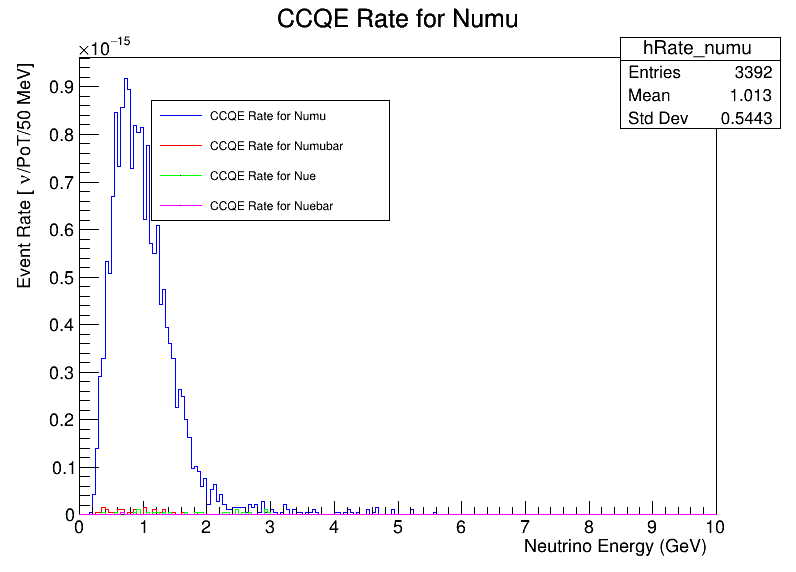
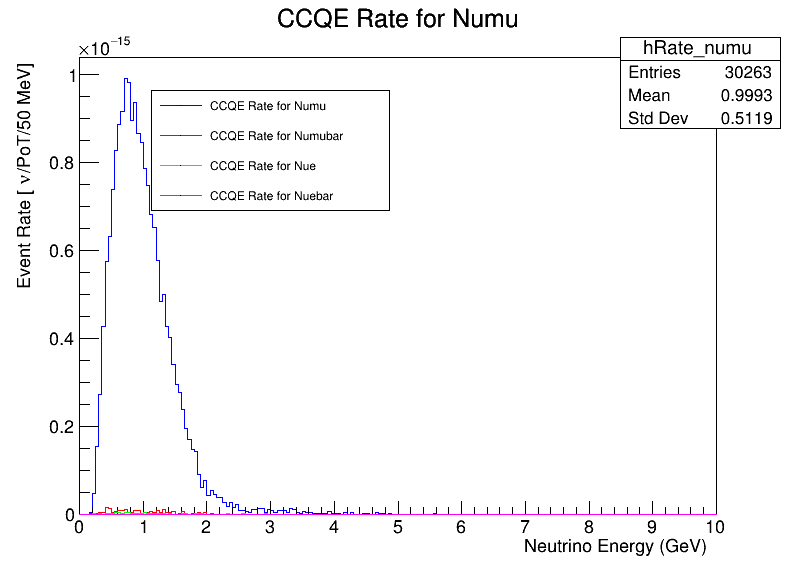
Adding same bin edges as jens thesis fig 6.5.

diff --git a/macros/plotccqe.C b/macros/plotccqe.C
@@ -4,7 +4,7 @@
 #include <map>
 #include <iostream>
 
-void plotccqe(const char* filename = "../output/root/sixth_test_run/combined/NUANCE_events_6.root")
+void plotccqe(const char* filename = "/exp/uboone/data/users/jburridg/Nuance/NUANCE/NUANCE_event_files/output/root/PoT_Nuance_event_files/combined/combined_nuance_events_1.root")
 {// change this to a -secs file for known pot
 
     //////////////////////////////////////////////////////////////////////// //
@@ -15,8 +15,9 @@ void plotccqe(const char* filename = "../output/root/sixth_test_run/combined/NUA
     //////////////////////////////////////////////////////////////////////// //
     Float_t secs_per_file = 1e10; //need to get this from the -secs file; total -secs exposre is the pot.
     Float_t pot_per_sec = 1.17e6;
-    Float_t num_files = 317; //need to get this from the -secs file; total number of files is the number of files that were hadd'd together.
-    Float_t scale_factor = pot_per_sec*secs_per_file * num_files; //this is the factor we need to divide the event numbers by to get the actual event rates. 
+    Float_t num_files = 2716; //need to get this from the -secs file; total number of files is the number of files that were hadd'd together.
+    Float_t N_target = 1.113e31; //number of target nucleons in the detector, needed to get cross section from rate.
+    Float_t scale_factor = pot_per_sec * secs_per_file * num_files; //this is the factor we need to divide the event numbers by to get the actual event rates. 
     std::cout << "Scale factor: " << scale_factor << std::endl;
     // ------------------------------------------------------------------ //
     //  Open file
@@ -88,13 +89,30 @@ void plotccqe(const char* filename = "../output/root/sixth_test_run/combined/NUA
     h3->SetBranchAddress("channel",    &channel);
 
     // ------------------------------------------------------------------ //
+    //  Custom variable-width bin edges (GeV)
+    // ------------------------------------------------------------------ //
+    const Double_t binEdges[] = {
+        0.125, 0.180, 0.240, 0.300, 0.350, 0.425, 0.480, 0.540, 0.600,
+        0.655, 0.755, 0.785, 0.845, 0.900, 0.955, 1.025, 1.085, 1.145,
+        1.200, 1.270, 1.320, 1.380, 1.435, 1.500, 1.560, 1.620, 1.680,
+        1.740, 1.800, 1.860, 1.920, 1.980, 2.050, 2.100, 2.166, 2.225,
+        2.280, 2.340, 2.400, 2.460, 2.525, 2.575, 2.600, 2.650, 2.700,
+        2.750, 2.800, 2.850, 2.900, 2.950, 3.000, 3.050, 3.100, 3.150,
+        3.200, 3.250, 3.300, 3.350, 3.400, 3.450, 3.500, 3.550, 3.600,
+        3.650, 3.700, 3.750, 3.800
+    };
+    const Int_t nBins = sizeof(binEdges)/sizeof(binEdges[0]) - 1; // 65 bins
+
+    // ------------------------------------------------------------------ //
     //  Step 6: plot the Numu/Numubar/Nue/Nuebar CCQE rates.
     //           this is for comparison with Fig. 6.5 in Jens thesis. 
     // ------------------------------------------------------------------ //
-    TH1D* hRate_numu    =  new TH1D("hRate_numu", "CCQE Rate for Numu;Neutrino Energy (GeV); Event Rate [#nu/PoT/50 MeV]", 200, 0, 10);
-    TH1D* hRate_numubar =  new TH1D("hRate_numubar", "CCQE Rate for Numubar;Neutrino Energy (GeV);Event Rate [#nu/PoT/50 MeV]", 200, 0, 10);
-    TH1D* hRate_nue     =  new TH1D("hRate_nue", "CCQE Rate for Nue;Neutrino Energy (GeV);Event Rate [#nu/PoT/50 MeV]", 200, 0, 10);
-    TH1D* hRate_nuebar  =  new TH1D("hRate_nuebar", "CCQE Rate for Nuebar;Neutrino Energy (GeV);Event Rate [#nu/PoT/50 MeV]", 200, 0, 10);
+     
+    TH1D* hRate_numu    = new TH1D("hRate_numu",    "CCQE Rate for Numu;Neutrino Energy (GeV);Event Rate [#nu/PoT/GeV]",    nBins, binEdges);
+    TH1D* hRate_numubar = new TH1D("hRate_numubar", "CCQE Rate for Numubar;Neutrino Energy (GeV);Event Rate [#nu/PoT/GeV]", nBins, binEdges);
+    TH1D* hRate_nue     = new TH1D("hRate_nue",     "CCQE Rate for Nue;Neutrino Energy (GeV);Event Rate [#nu/PoT/GeV]",     nBins, binEdges);
+    TH1D* hRate_nuebar  = new TH1D("hRate_nuebar",  "CCQE Rate for Nuebar;Neutrino Energy (GeV);Event Rate [#nu/PoT/GeV]",  nBins, binEdges);
+
 
     Int_t   ccqe_events_filled = 0; //counter to keep track of how many ccqe events we fill in total.
 
@@ -146,6 +164,14 @@ void plotccqe(const char* filename = "../output/root/sixth_test_run/combined/NUA
     hXsec_nue    ->Divide(hFlux_nue);
     hXsec_nuebar ->Divide(hFlux_nuebar);
 
+    //now scale by /nucleon:
+    for (int i = 1; i <= hXsec_numu->GetNbinsX(); i++) {
+        hXsec_numu   ->SetBinContent(i, hXsec_numu->GetBinContent(i) / N_target);
+        hXsec_numubar->SetBinContent(i, hXsec_numubar->GetBinContent(i) / N_target);
+        hXsec_nue    ->SetBinContent(i, hXsec_nue->GetBinContent(i) / N_target);
+        hXsec_nuebar ->SetBinContent(i, hXsec_nuebar->GetBinContent(i) / N_target);
+    }
+    
     //draw canvas 
     TCanvas* c1 = new TCanvas("c1", "Cross Sections", 800, 600);
     //draw histograms with different colors

diff --git a/macros/extract_crosssection.C b/macros/extract_crosssection.C
@@ -34,7 +34,7 @@
 static const Float_t CM2_TO_PB = 1; //1.0e36; //levae this be. 
 static const Float_t POT = 1;//1.0e20; // protons on target for this run
 
-void extract_crosssection(const char* filename = "../output/root/first_test_run/combined/NUANCE_events.root")
+void extract_crosssection(const char* filename = "/exp/uboone/data/users/jburridg/Nuance/NUANCE/NUANCE_event_files/output/root/first_test_run/combined/NUANCE_events.root")
 {
     // ------------------------------------------------------------------ //
     //  Open file

diff --git a/macros/integrate.C b/macros/integrate.C
@@ -5,7 +5,7 @@
 void integrate() {
 
     //1. Open the ROOT file 
-    TFile *f = TFile::Open("../output/root/first_test_run/combined/NUANCE_events.root");
+    TFile *f = TFile::Open("/exp/uboone/data/users/jburridg/Nuance/NUANCE/NUANCE_event_files/output/root/first_test_run/combined/NUANCE_events.root");
     if (!f || f->IsZombie()) {
         std::cerr << "Error: cannot open file!" << std::endl;
         return;

diff --git a/macros/compare_spectra.C b/macros/compare_spectra.C
@@ -8,7 +8,7 @@
 //
 // Usage: root -l compare_spectra.C
 
-void compare_spectra(const char* filename = "../output/root/first_test_run/combined/NUANCE_events.root")
+void compare_spectra(const char* filename = "/exp/uboone/data/users/jburridg/Nuance/NUANCE/NUANCE_event_files/output/root/first_test_run/combined/NUANCE_events.root")
 {
     TFile* f = TFile::Open(filename);
     if (!f || f->IsZombie()) {

diff --git a/macros/plot_histograms.C b/macros/plot_histograms.C
@@ -7,7 +7,7 @@
 
 void plot_histograms() {
 
-    TFile* f = TFile::Open("../output/root/first_test_run/uncombined/events_2.root");
+    TFile* f = TFile::Open("/exp/uboone/data/users/jburridg/Nuance/NUANCE/NUANCE_event_files/output/root/first_test_run/uncombined/events_2.root");
     if (!f || f->IsZombie()) {
         std::cerr << "Error: Cannot open file." << std::endl;
         return;
